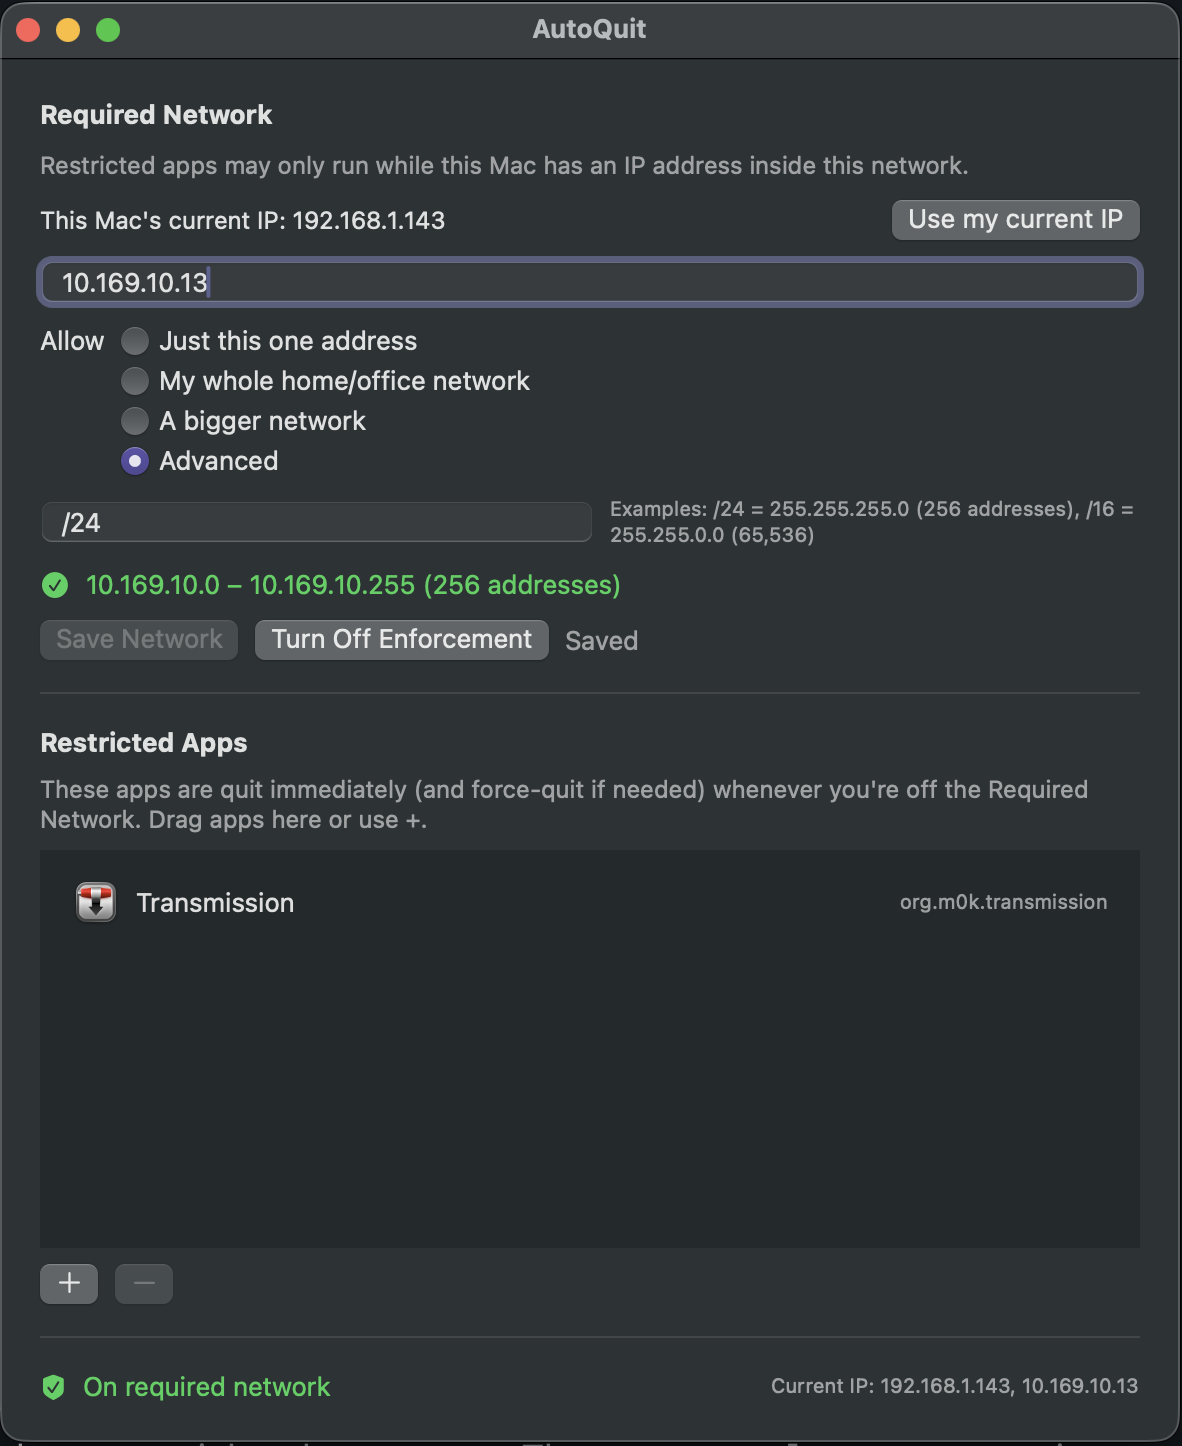
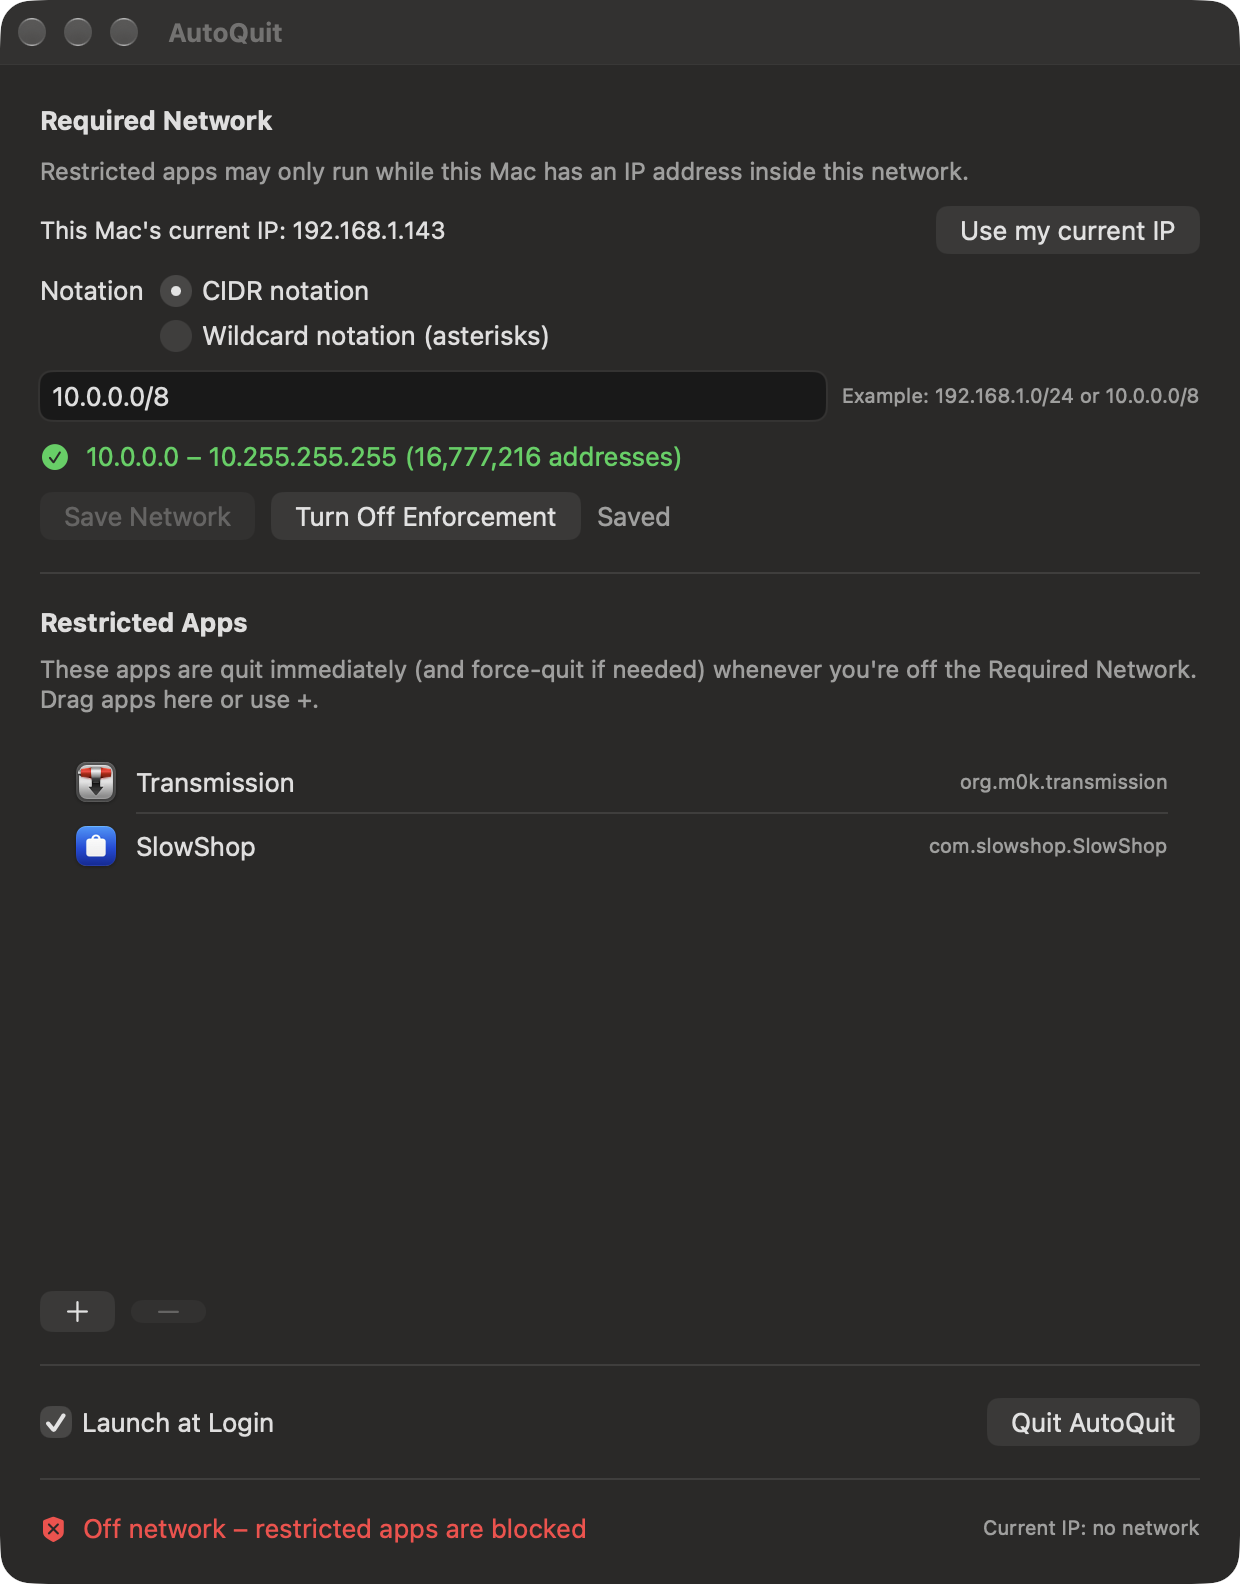
Add on-demand script to update Settings window screenshot

diff --git a/HISTORY.md b/HISTORY.md
@@ -1,5 +1,11 @@
 # History
 
+## 2026-10-14 – On-demand screenshot generator script
+
+- Added `scripts/update_screenshot.sh` to capture a native, high-resolution screenshot of the AutoQuit Settings window into `screenshot.png` using the active settings.
+- Updated `screenshot.png` with the new Settings interface (CIDR and Wildcard notation options, Launch at Login, and Quit AutoQuit).
+- Documented `scripts/update_screenshot.sh` in `README.md`.
+
 ## 2026-10-14 – CIDR and Wildcard network configuration choices
 
 - Replaced preset radio choices in `Sources/AutoQuit/SettingsView.swift` with two distinct notation options: "CIDR notation" (e.g. `192.168.1.0/24`) and "Wildcard notation (asterisks)" (e.g. `192.168.1.*`, `192.168.*.*`, `10.*.*.*`).

diff --git a/README.md b/README.md
@@ -17,6 +17,7 @@ A macOS menu bar app (axe icon) that quits chosen apps whenever your Mac is not 
 swift test
 scripts/build_app.sh             # builds build/AutoQuit.app (ad-hoc signed)
 scripts/build_app.sh --install   # also copies to ~/Applications and launches it
+scripts/update_screenshot.sh     # updates screenshot.png from the current Settings UI
 ```
 
 Run it from its final location (`~/Applications`): the LaunchAgent records the path of the executable that first ran.
